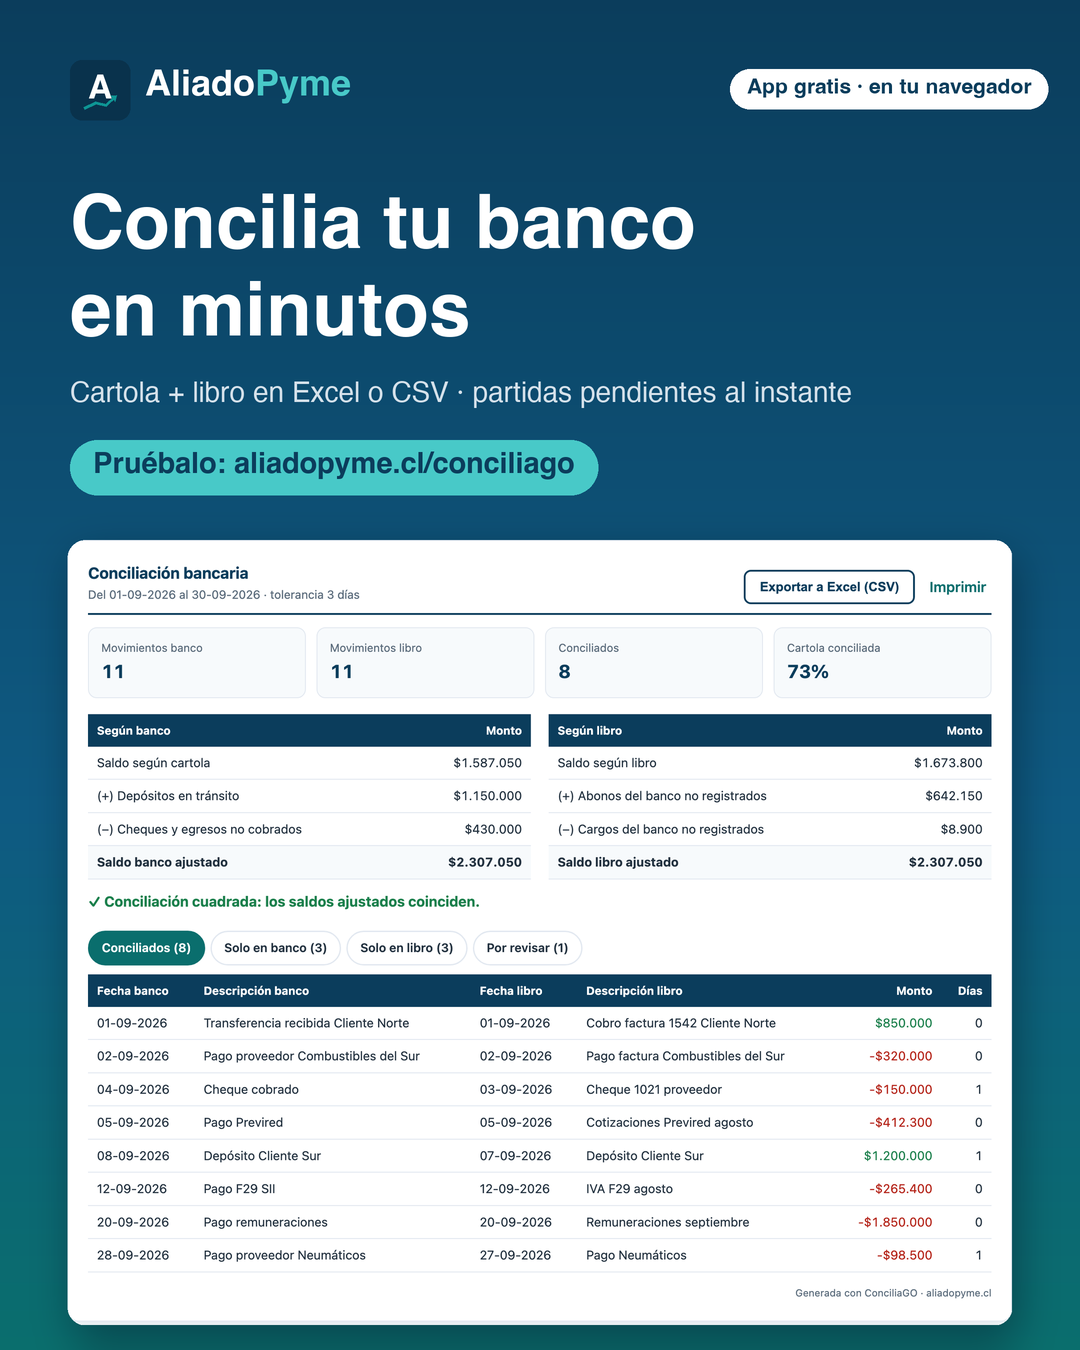
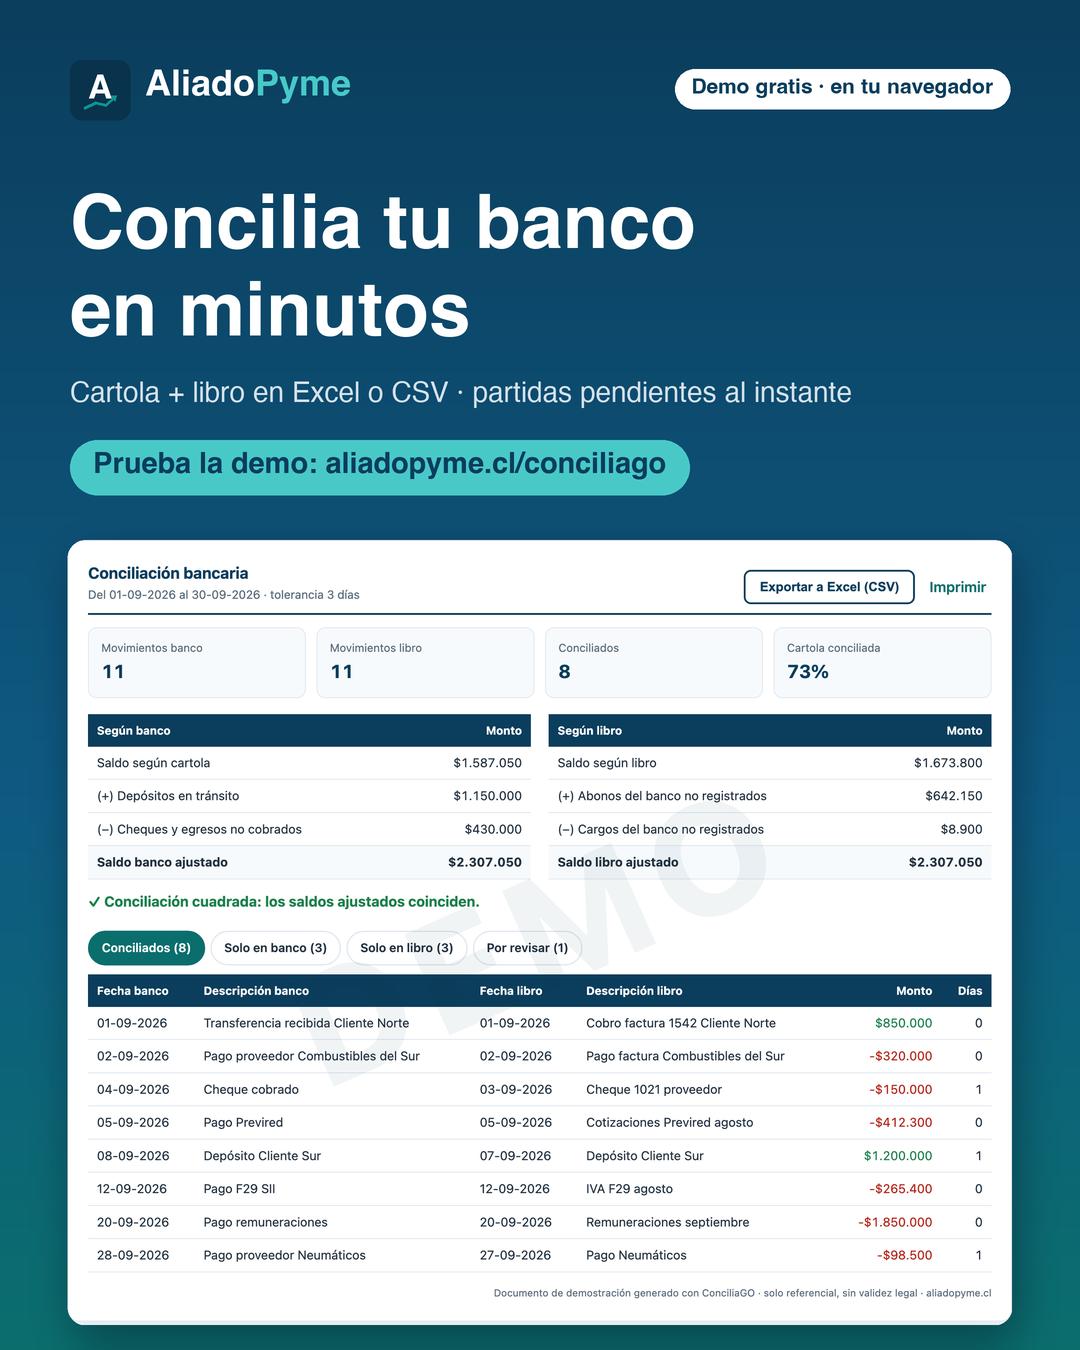
Marcar LiquidaGO y ConciliaGO como versiones demo sin responsabilidad por los datos
- Aviso destacado de versión demo y exención de responsabilidad en ambas apps.
- Marca de agua DEMO y pie "sin validez legal" en liquidación y conciliación.
- Portada: textos y botones "Probar demo" con nota de uso referencial.
- Descripciones de vista previa e imágenes de marketing indican demo.

diff --git a/conciliago.html b/conciliago.html
@@ -6,7 +6,7 @@
   <title>ConciliaGO — Conciliación bancaria | AliadoPyme</title>
   <meta name="description" content="ConciliaGO: sube la cartola de tu banco y tu libro de banco en Excel o CSV. Empareja los movimientos, detecta partidas pendientes y arma el estado de conciliación bancaria en minutos.">
   <meta property="og:title" content="ConciliaGO — Concilia tu banco en minutos">
-  <meta property="og:description" content="Cartola + libro de banco en Excel o CSV: movimientos emparejados, partidas pendientes y estado de conciliación. Gratis, en tu navegador.">
+  <meta property="og:description" content="Demo gratuita: cartola + libro de banco en Excel o CSV, movimientos emparejados y estado de conciliación. Uso referencial, en tu navegador.">
   <meta property="og:url" content="https://aliadopyme.cl/conciliago.html">
   <meta property="og:type" content="website">
   <meta property="og:locale" content="es_CL">
@@ -16,7 +16,7 @@
   <link rel="canonical" href="https://aliadopyme.cl/conciliago.html">
   <link rel="icon" type="image/svg+xml" href="img/logo-icon.svg">
   <link rel="stylesheet" href="css/styles.css">
-  <link rel="stylesheet" href="css/apps.css?v=20260913b">
+  <link rel="stylesheet" href="css/apps.css?v=20260914">
 </head>
 <body>
 
@@ -35,17 +35,22 @@
 
 <section class="app-hero">
   <div class="contenedor">
-    <span class="badge">🏦 App AliadoPyme · gratis</span>
+    <span class="badge">🏦 Demo gratuita · AliadoPyme</span>
     <h1>ConciliaGO: concilia tu banco en minutos</h1>
-    <p>Sube la cartola de tu banco y tu libro de banco en Excel o CSV. ConciliaGO empareja los
-       movimientos, detecta lo que falta registrar y arma el estado de conciliación.</p>
+    <p>Prueba cómo conciliar tu cartola y tu libro de banco en Excel o CSV: ConciliaGO empareja los
+       movimientos, detecta lo que falta registrar y arma el estado de conciliación. Versión demo de uso referencial.</p>
   </div>
 </section>
 
 <section class="app-seccion">
   <div class="contenedor">
-    <p class="aviso-app no-print">🔒 Los archivos se leen en tu navegador y nunca se suben a internet.
-      Revisa siempre las partidas pendientes antes de ajustar tu contabilidad.</p>
+    <div class="aviso-demo" role="note">
+      <b>⚠ Versión demo, solo de prueba.</b> Los resultados son referenciales, pueden contener errores y
+      no reemplazan la revisión de un profesional ni constituyen asesoría contable o tributaria.
+      AliadoPyme no se responsabiliza por los datos ingresados ni por ajustes contables, pagos o
+      declaraciones que se realicen en base a esta herramienta.
+      <span class="aviso-demo-privacidad">🔒 Los archivos se leen solo en tu navegador y nunca se suben a internet.</span>
+    </div>
 
     <div class="cargas-grid no-print">
       <div class="panel">
@@ -86,7 +91,7 @@
       <p class="mensaje-error" id="mensaje" role="status"></p>
     </div>
 
-    <div class="panel" id="resultado" style="margin-top:20px" hidden>
+    <div class="panel marca-demo" id="resultado" style="margin-top:20px" hidden>
       <div class="doc-encabezado">
         <div class="doc-empresa">Conciliación bancaria<span id="res-subtitulo"></span></div>
         <div class="barra-acciones no-print" style="margin-top:0">
@@ -98,7 +103,7 @@
       <div id="estado"></div>
       <div class="pestanas no-print" role="tablist" id="pestanas"></div>
       <div class="scroll-x" id="tabla-detalle"></div>
-      <p class="doc-marca">Generada con ConciliaGO · aliadopyme.cl</p>
+      <p class="doc-marca">Documento de demostración generado con ConciliaGO · solo referencial, sin validez legal · aliadopyme.cl</p>
     </div>
 
     <div class="panel no-print" style="margin-top:24px;text-align:center">
@@ -119,8 +124,8 @@
 </footer>
 
 <script src="https://cdnjs.cloudflare.com/ajax/libs/xlsx/0.18.5/xlsx.full.min.js"></script>
-<script src="js/conciliago-motor.js?v=20260913b"></script>
-<script src="js/conciliago-app.js?v=20260913b"></script>
-<script src="js/meta-pixel.js?v=20260913b"></script>
+<script src="js/conciliago-motor.js?v=20260914"></script>
+<script src="js/conciliago-app.js?v=20260914"></script>
+<script src="js/meta-pixel.js?v=20260914"></script>
 </body>
 </html>

diff --git a/liquidago.html b/liquidago.html
@@ -6,7 +6,7 @@
   <title>LiquidaGO — Liquidaciones de sueldo | AliadoPyme</title>
   <meta name="description" content="LiquidaGO: calcula liquidaciones de sueldo en Chile con los indicadores Previred y SII vigentes. Sueldo líquido, AFP, salud, cesantía, impuesto único y costo empresa, con liquidación imprimible en PDF.">
   <meta property="og:title" content="LiquidaGO — Liquidaciones de sueldo en minutos">
-  <meta property="og:description" content="Sueldo líquido, cotizaciones, impuesto único y costo empresa con indicadores Previred vigentes. Gratis, en tu navegador.">
+  <meta property="og:description" content="Demo gratuita: sueldo líquido, cotizaciones, impuesto único y costo empresa con indicadores Previred vigentes. Uso referencial, en tu navegador.">
   <meta property="og:url" content="https://aliadopyme.cl/liquidago.html">
   <meta property="og:type" content="website">
   <meta property="og:locale" content="es_CL">
@@ -16,7 +16,7 @@
   <link rel="canonical" href="https://aliadopyme.cl/liquidago.html">
   <link rel="icon" type="image/svg+xml" href="img/logo-icon.svg">
   <link rel="stylesheet" href="css/styles.css">
-  <link rel="stylesheet" href="css/apps.css?v=20260913b">
+  <link rel="stylesheet" href="css/apps.css?v=20260914">
 </head>
 <body>
 
@@ -35,18 +35,23 @@
 
 <section class="app-hero">
   <div class="contenedor">
-    <span class="badge">🧾 App AliadoPyme · gratis</span>
+    <span class="badge">🧾 Demo gratuita · AliadoPyme</span>
     <h1>LiquidaGO: liquidaciones de sueldo en minutos</h1>
-    <p>Calcula sueldo líquido, cotizaciones, impuesto único y costo empresa con los indicadores
-       Previred y SII de <b data-periodo></b>, e imprime la liquidación lista para firmar.</p>
+    <p>Prueba cómo calcular sueldo líquido, cotizaciones, impuesto único y costo empresa con los
+       indicadores Previred y SII de <b data-periodo></b>. Versión demo de uso referencial.</p>
   </div>
 </section>
 
 <section class="app-seccion">
   <div class="contenedor">
-    <p class="aviso-app no-print">🔒 Todo se calcula en tu navegador: los datos de tus trabajadores no se
-      envían ni se guardan en ningún servidor. Herramienta de cálculo referencial; revisa los casos
-      especiales (licencias, pensionados, trabajos pesados) antes de pagar.</p>
+    <div class="aviso-demo" role="note">
+      <b>⚠ Versión demo, solo de prueba.</b> Los resultados son referenciales, pueden contener errores y
+      no reemplazan la revisión de un profesional ni constituyen asesoría laboral, previsional o tributaria.
+      AliadoPyme no se responsabiliza por los datos ingresados ni por pagos, liquidaciones o declaraciones
+      que se realicen en base a esta herramienta.
+      <span class="aviso-demo-privacidad">🔒 Los datos se procesan solo en tu navegador y no se envían a
+        ningún servidor. No incluye casos especiales como licencias médicas, pensionados o trabajos pesados.</span>
+    </div>
 
     <div class="app-grid">
       <form class="panel no-print" id="form-liq" autocomplete="off">
@@ -135,7 +140,7 @@
 
       <div>
         <ul class="alertas no-print" id="alertas"></ul>
-        <article class="documento" id="liquidacion" aria-live="polite"></article>
+        <article class="documento marca-demo" id="liquidacion" aria-live="polite"></article>
         <div class="panel no-print" id="panel-costo" style="margin-top:18px"></div>
       </div>
     </div>
@@ -175,9 +180,9 @@
   </div>
 </footer>
 
-<script src="js/indicadores.js?v=20260913b"></script>
-<script src="js/liquidago-motor.js?v=20260913b"></script>
-<script src="js/liquidago-app.js?v=20260913b"></script>
-<script src="js/meta-pixel.js?v=20260913b"></script>
+<script src="js/indicadores.js?v=20260914"></script>
+<script src="js/liquidago-motor.js?v=20260914"></script>
+<script src="js/liquidago-app.js?v=20260914"></script>
+<script src="js/meta-pixel.js?v=20260914"></script>
 </body>
 </html>

diff --git a/index.html b/index.html
@@ -386,8 +386,8 @@
 <section id="apps">
   <div class="contenedor">
     <h2 class="titulo-seccion">Aplicaciones AliadoPyme</h2>
-    <p class="subtitulo-seccion">Herramientas propias, gratis y en tu navegador, para resolver en minutos
-       las tareas administrativas que más tiempo le quitan a tu pyme.</p>
+    <p class="subtitulo-seccion">Prueba gratis las versiones demo de nuestras herramientas propias para resolver
+       en minutos las tareas administrativas que más tiempo le quitan a tu pyme.</p>
     <div class="grid-servicios">
       <div class="tarjeta">
         <span class="icono">🧾</span>
@@ -399,7 +399,7 @@
           <li>Costo empresa con la cotización de la reforma de pensiones</li>
           <li>Liquidación lista para imprimir y libro exportable a Excel</li>
         </ul>
-        <p style="margin-top:12px"><a href="liquidago.html" class="btn" style="padding:9px 18px;font-size:0.9rem">Abrir LiquidaGO →</a></p>
+        <p style="margin-top:12px"><a href="liquidago.html" class="btn" style="padding:9px 18px;font-size:0.9rem">Probar demo de LiquidaGO →</a></p>
       </div>
       <div class="tarjeta">
         <span class="icono">🏦</span>
@@ -411,9 +411,13 @@
           <li>Detecta depósitos en tránsito, cheques no cobrados y cargos sin registrar</li>
           <li>Estado de conciliación listo para revisar y exportar</li>
         </ul>
-        <p style="margin-top:12px"><a href="conciliago.html" class="btn" style="padding:9px 18px;font-size:0.9rem">Abrir ConciliaGO →</a></p>
+        <p style="margin-top:12px"><a href="conciliago.html" class="btn" style="padding:9px 18px;font-size:0.9rem">Probar demo de ConciliaGO →</a></p>
       </div>
     </div>
+    <p style="text-align:center;color:var(--texto-suave);font-size:0.85rem;max-width:760px;margin:22px auto 0">
+      Versiones demo, solo de prueba y de uso referencial: los resultados pueden contener errores y no
+      constituyen asesoría profesional. AliadoPyme no se responsabiliza por los datos ingresados ni por
+      decisiones, pagos o declaraciones basados en ellas.</p>
   </div>
 </section>
 

diff --git a/css/apps.css b/css/apps.css
@@ -78,6 +78,33 @@ details.indicadores .campos { margin-top: 10px; }
 }
 .mensaje-error { color: #b42318; font-size: 0.9rem; margin-top: 10px; }
 
+/* Aviso de versión demo y marca de agua en los resultados */
+.aviso-demo {
+  background: #fff4e5;
+  border: 1px solid #f3c98b;
+  color: #6b4200;
+  border-radius: 10px;
+  padding: 12px 16px;
+  font-size: 0.88rem;
+  line-height: 1.5;
+  margin-bottom: 20px;
+}
+.aviso-demo-privacidad { display: block; margin-top: 6px; color: #7a5d33; }
+.marca-demo { position: relative; overflow: hidden; }
+.marca-demo::after {
+  content: "DEMO";
+  position: absolute;
+  top: 50%;
+  left: 50%;
+  transform: translate(-50%, -50%) rotate(-24deg);
+  font-size: clamp(5rem, 16vw, 11rem);
+  font-weight: 800;
+  letter-spacing: 0.1em;
+  color: rgba(11, 61, 92, 0.06);
+  white-space: nowrap;
+  pointer-events: none;
+}
+
 .alertas { margin: 0 0 14px; padding: 0; list-style: none; }
 .alertas li {
   background: #fff4e5;

diff --git a/js/liquidago-app.js b/js/liquidago-app.js
@@ -174,7 +174,7 @@
       <p class="doc-pie">Base tributable ${pesos(l.baseTributable)} · Tope imponible ${ind.topes.afpUF} UF
         (${pesos(l.topeAfp)}) · UF ${numero(ind.uf, 2)} · UTM ${pesos(ind.utm)}</p>
       <div class="firmas"><div>Firma empleador</div><div>Recibí conforme · firma trabajador</div></div>
-      <p class="doc-marca">Generada con LiquidaGO · aliadopyme.cl</p>`;
+      <p class="doc-marca">Documento de demostración generado con LiquidaGO · solo referencial, sin validez legal · aliadopyme.cl</p>`;
 
     const ae = l.aportesEmpleador;
     const ss = ind.seguroSocialEmpleador;
